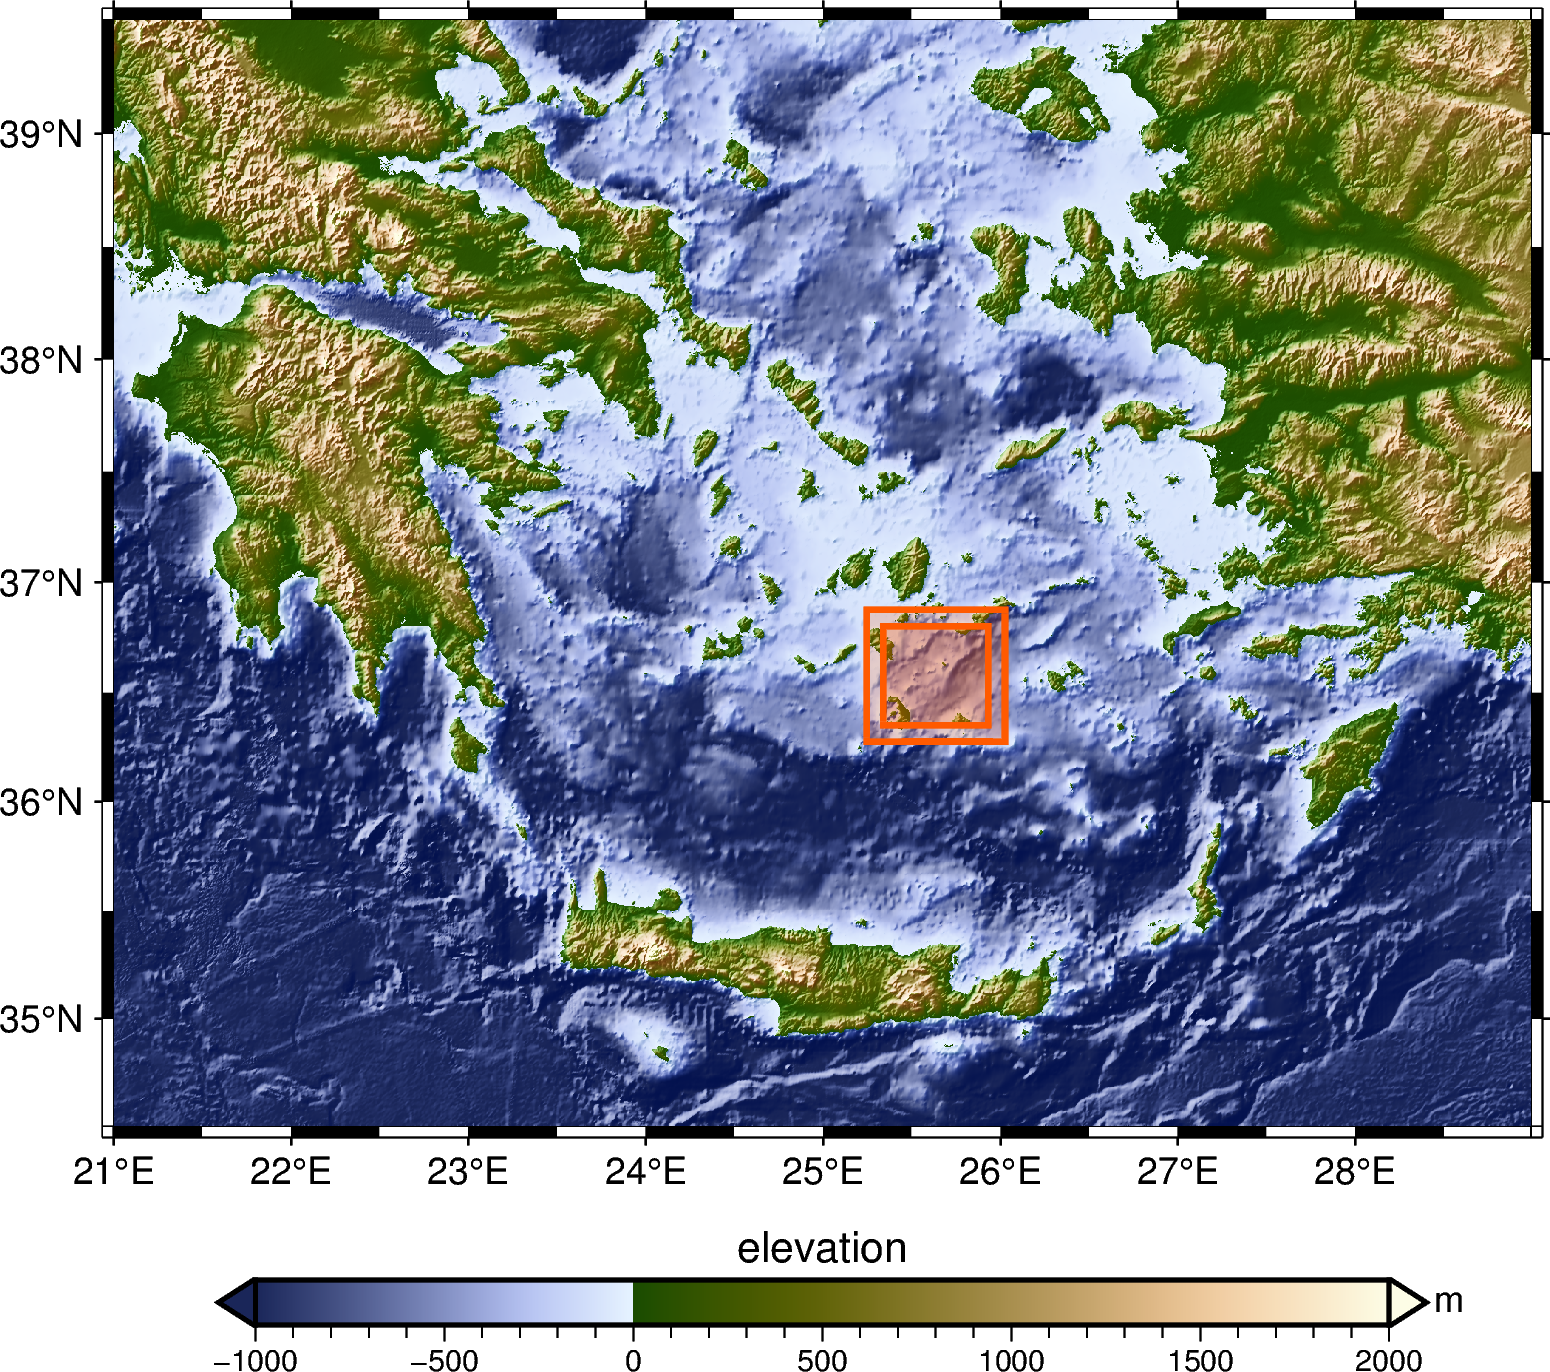
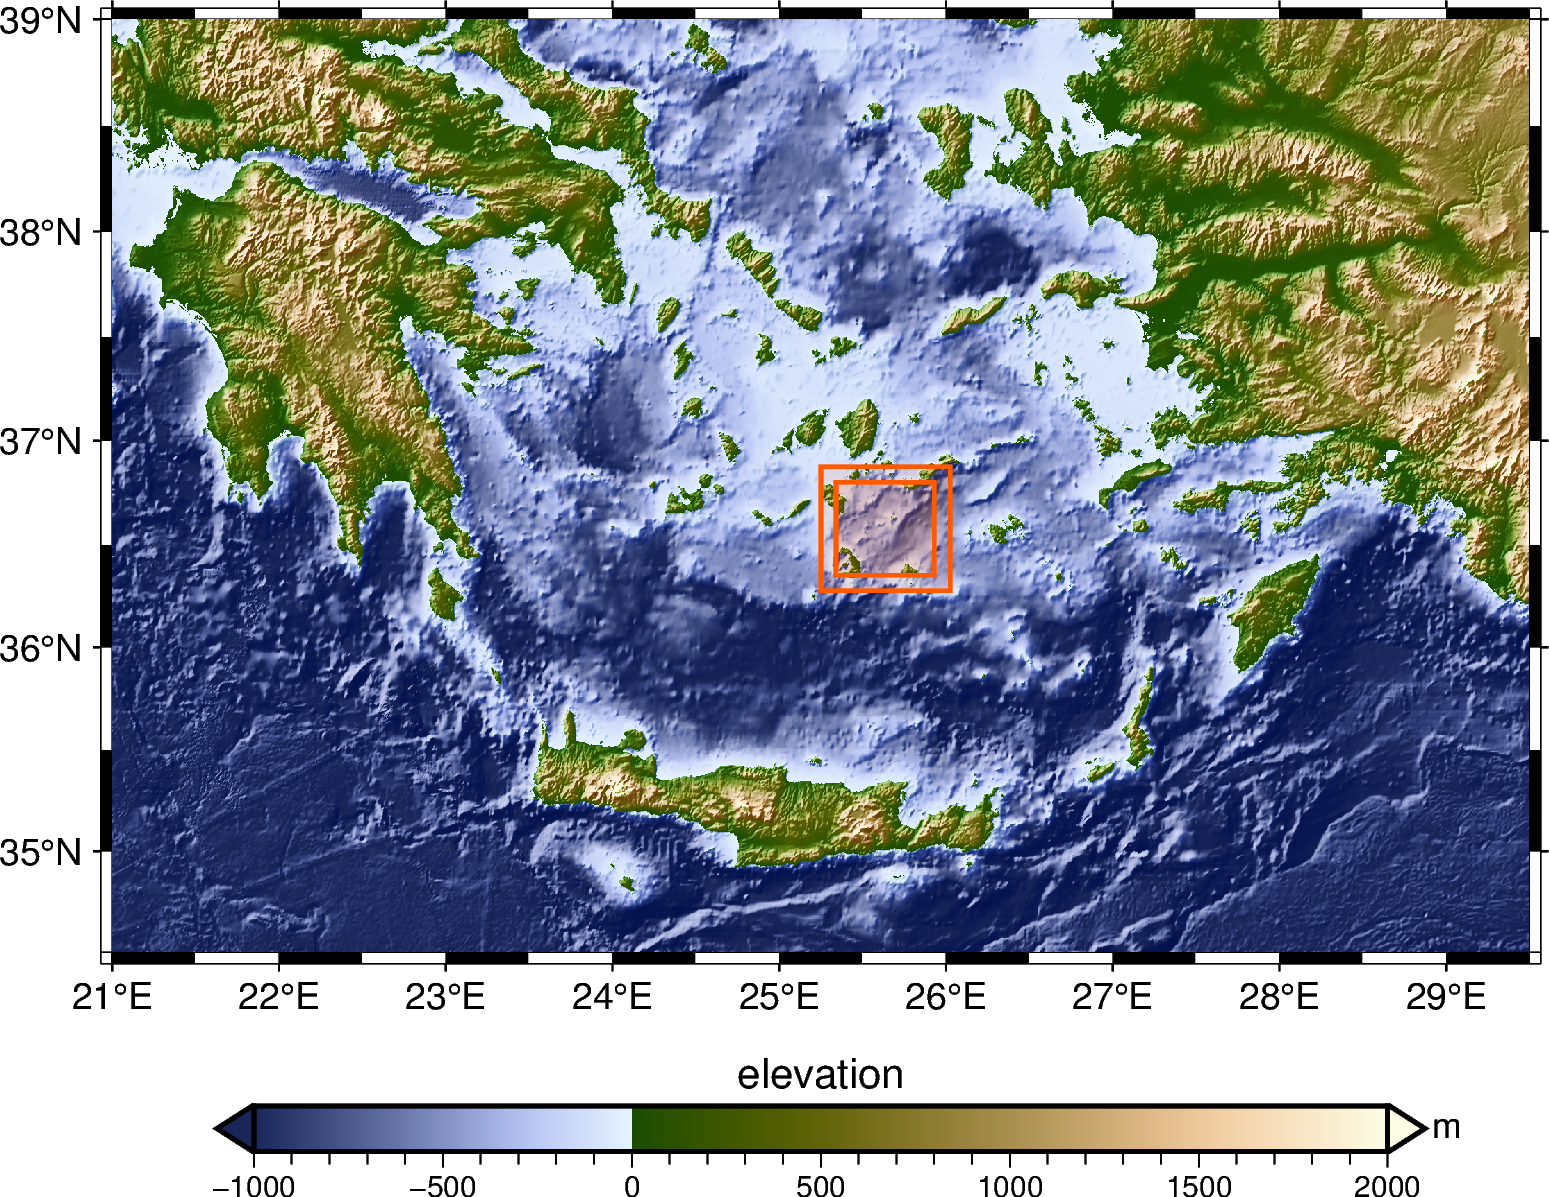
Update plot region

diff --git a/015_santorini_earthquakes/santorini_earthquakes.py b/015_santorini_earthquakes/santorini_earthquakes.py
@@ -69,9 +69,8 @@ lon_max = 25.93
 lat_min = 36.35
 lat_max = 36.80
 region = [lon_min, lon_max, lat_min, lat_max]
-region_ele = [21, 28.99, 34.5, 39.5]
-region_surf = [25.22, 26.05, 36.25, 36.9]
-region_surf = [25.245, 26.025, 36.275, 36.875]
+region_ele = [21, 29.5, 34.5, 39]
+region_surf = [25.251, 26.025, 36.275, 36.875]
 
 # Santorini
 args_santo = {"x": 25.43, "y": 36.42, "style": "x0.6c", "pen": f"5p,{color_hl}"}
@@ -108,8 +107,8 @@ df_eq = df_eq_raw[df_eq_raw["date_time"] >= start_date_data]
 grd_ele = gmt.datasets.load_earth_relief(region=region_ele, resolution="15s")
 grd_surf = gmt.datasets.load_earth_relief(region=region_surf, resolution="03s")
 
-
 # -----------------------------------------------------------------------------
+# 2-D map
 fig_ele = gmt.Figure()
 fig_ele.basemap(projection="M12c", region=region_ele, frame=["WSne", "a1f0.5"])
 
@@ -122,7 +121,7 @@ for data in [
     [[region_surf[0], region_surf[2], region_surf[1], region_surf[3]]],
     [[lon_min, lat_min, lon_max, lat_max]]
 ]:
-    fig_ele.plot(data=data, style="r+s", pen=f"1.5p,{color_hl}", fill=f"{color_hl}@80")
+    fig_ele.plot(data=data, style="r+s", pen=f"1p,{color_hl}", fill=f"{color_hl}@90")
 
 fig_ele.show()
 fig_name = "santorini_map_elevation"
@@ -130,11 +129,14 @@ for ext in ["png"]:  # "pdf", "eps"
     fig_ele.savefig(fname=f"{path_out}/{fig_name}.{ext}")
 print(fig_name)
 
-
 # -----------------------------------------------------------------------------
+# 3-D plot - takes some time
 fig_surf = gmt.Figure()
 fig_surf.basemap(
-    projection="M12c", region=region_surf, frame=["wSnE", "af"], perspective=[150, 20]
+    projection="M12c",
+    region=region_surf,
+    frame=["wSnE", "af", "+e"],
+    perspective=[150, 20],
 )
 
 gmt.makecpt(cmap="oleron", series=[-1000, 800])
@@ -148,7 +150,7 @@ fig_surf.grdview(
     plane="-1000+ggrey",
     facadepen="gray10",
 )
-fig_surf.colorbar(frame=["xa500f100+lelevation", "y+lm"], position="+e0.3c+ml")
+fig_surf.colorbar(frame=["xa500f100+lelevation", "y+lm"], position="+e0.3c+o0c/0.4c+ml")
 
 fig_surf.show()
 fig_name = "santorini_surface_elevation"
